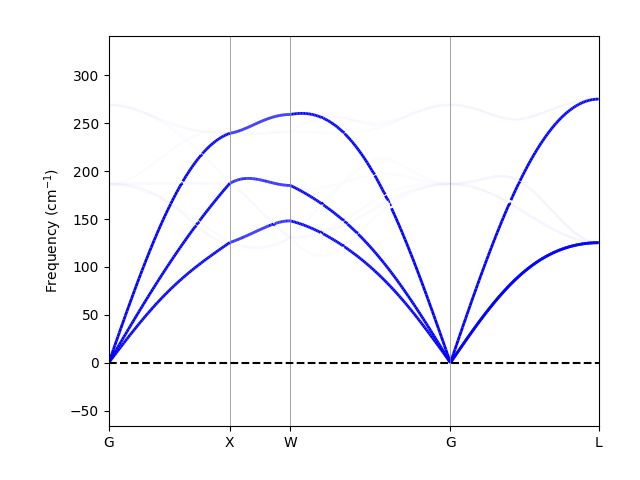
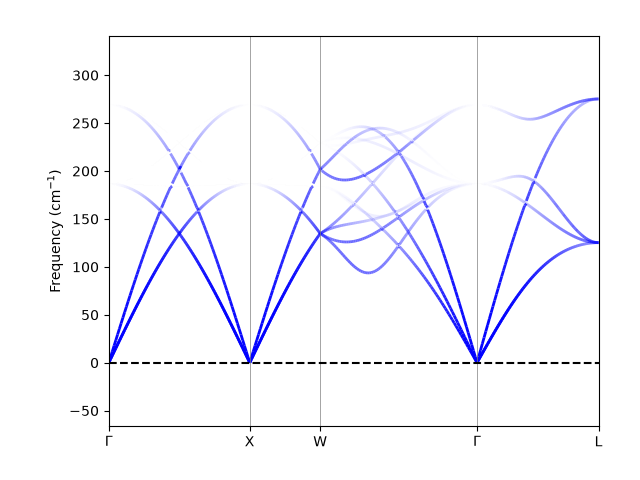
fix(examples): Cu_fcc k-path frame chain (multiply by the supercell matrix)
ase get_special_points(fcc) returns primitive-fractional points
(Setyawan-Curtarolo), but abipy interprets qptbounds in the DDB
structure frame - here the conventional cubic cell (natom=4). The
example fed the primitive-frame points straight in, silently plotting
the wrong path. Fix: k_conv = k_prim @ sc_mat with
sc_mat = [[-1,1,1],[1,-1,1],[1,1,-1]] (X->(0,1,0), W->(1/2,1,0)),
documented as a frame chain in the example; DDB_unfolder docstring
states the required frame; docs snippet updated; committed figure
regenerated (acoustic ~0 at all Gamma, max 275 cm-1 = 8.25 THz).
New test_cu_fcc_kpath_frame.py seals the conversion + frame premise.

diff --git a/tests/test_cu_fcc_kpath_frame.py b/tests/test_cu_fcc_kpath_frame.py
@@ -1,0 +1,52 @@
+"""Cu_fcc example: the k-path must be expressed in the DDB structure's frame.
+
+The out_DDB fixture stores the conventional cubic fcc cell (natom=4), so
+abipy interprets ``kpath_bounds`` in the conventional-cubic reciprocal basis
+(X=(0,1,0), W=(1/2,1,0), L=(1/2,1/2,1/2)).  ase's ``get_special_points`` for
+the primitive fcc cell returns primitive-fractional coordinates instead
+(X=(1/2,0,1/2)); the example must convert them, ``k_conv = k_prim @ sc_mat``.
+"""
+import importlib.util
+from pathlib import Path
+
+import numpy as np
+import pytest
+
+REPO_ROOT = Path(__file__).resolve().parents[1]
+EXAMPLE = REPO_ROOT / "examples" / "Cu_fcc" / "unfold.py"
+
+
+def _load_example_module():
+    # unfold.py imports unfolding.DDB_unfolder, which needs abipy at import.
+    pytest.importorskip("abipy")
+    spec = importlib.util.spec_from_file_location("cu_fcc_unfold_example", EXAMPLE)
+    mod = importlib.util.module_from_spec(spec)
+    spec.loader.exec_module(mod)  # __main__ guard: no abinit run at import
+    return mod
+
+
+def test_ase_fcc_special_points_are_primitive_fractional():
+    # Premise of the example's conversion: ase returns primitive-cell
+    # fractional coordinates, not conventional-cubic ones.
+    from ase.build import bulk
+    from ase.dft.kpoints import get_special_points
+
+    points = get_special_points(bulk("Cu", "fcc").cell, eps=0.01)
+    assert np.allclose(points["X"], [0.5, 0.0, 0.5])
+    assert np.allclose(points["W"], [0.5, 0.25, 0.75])
+    assert np.allclose(points["L"], [0.5, 0.5, 0.5])
+
+
+def test_example_kpath_is_in_conventional_frame():
+    mod = _load_example_module()
+    sc_mat = np.linalg.inv((np.array([[0, 1, 1], [1, 0, 1], [1, 1, 0]]) / 2.0))
+    bounds, names = mod.build_fcc_kpath(sc_mat)
+
+    assert names == [r"$\Gamma$", "X", "W", r"$\Gamma$", "L"]
+    # G-X-W-G-L in conventional-cubic reciprocal coordinates (the frame of
+    # the conventional-cell DDB that abipy reads).
+    expected = np.array(
+        [[0.0, 0.0, 0.0], [0.0, 1.0, 0.0], [0.5, 1.0, 0.0],
+         [0.0, 0.0, 0.0], [0.5, 0.5, 0.5]]
+    )
+    assert np.allclose(bounds, expected, atol=1e-12)

diff --git a/docs/content/examples.md b/docs/content/examples.md
@@ -59,31 +59,45 @@ The resulting unfolded band structure is saved as `unfolded_band_structure.png`.
 This example demonstrates unfolding the phonon band structure of FCC Cu using Abinit DDB files.
 
 Files used in this example:
-- `out_DDB`: The DDB file from Abinit
+- `out_DDB`: The DDB file from Abinit (computed for the **conventional cubic** fcc cell, natom=4)
 - `unfold.py`: The script to perform the unfolding
 
-The example script `unfold.py` shows how to use the DDB_unfolder function:
+The subtle point is the **k-path frame chain**: ase's
+`get_special_points('fcc', ...)` returns the fcc special points in
+*primitive-cell* fractional coordinates (Setyawan-Curtarolo:
+X=(1/2,0,1/2), W=(1/2,1/4,3/4), L=(1/2,1/2,1/2)), while abipy
+interprets `qptbounds` in the DDB structure's fractional coordinates —
+here the *conventional cubic* reciprocal basis (X=(0,1,0),
+W=(1/2,1,0), L=(1/2,1/2,1/2), in units of 2pi/a). The two frames are
+related by the supercell matrix, and the path points must be
+multiplied by it before entering abipy:
 
 ```python
 import numpy as np
-from unfolding.DDB_unfolder import nc_unfolder, DDB_unfolder
+from unfolding.DDB_unfolder import DDB_unfolder
 import matplotlib.pyplot as plt
 from ase.build import bulk
-from ase.dft.kpoints import get_special_points, bandpath
+from ase.dft.kpoints import get_special_points
 
-def run_unfolding():
-    # Generate k-path for fcc Cu.
-    atoms = bulk('Cu','fcc')
-    points = get_special_points('fcc', atoms.cell, eps=0.01)
-    knames='GXWGL'
-    kpath_bounds= [points[k] for k in 'GXWGL']
-    sc_mat = np.linalg.inv((np.array([[0, 1, 1], [1, 0, 1], [1, 1, 0]]) / 2.0))
-    ax=DDB_unfolder('./out_DDB', sc_mat=sc_mat, kpath_bounds=kpath_bounds, knames=knames) 
-    plt.savefig('unfolded.png')
-    plt.show()
+sc_mat = np.linalg.inv((np.array([[0, 1, 1], [1, 0, 1], [1, 1, 0]]) / 2.0))
+# = [[-1,1,1],[1,-1,1],[1,1,-1]]  (conventional cell = prim cell @ sc_mat)
 
-run_unfolding()
+atoms = bulk('Cu', 'fcc')
+points = get_special_points(atoms.cell, eps=0.01)   # PRIMITIVE fractional!
+knames = [r'$\Gamma$', 'X', 'W', r'$\Gamma$', 'L']
+kpath_prim = np.array([points[k] for k in 'GXWGL'])
+kpath_bounds = [np.dot(k, sc_mat) for k in kpath_prim]  # -> CONVENTIONAL frame
+# e.g. X: (1/2,0,1/2) -> (0,1,0);  W: (1/2,1/4,3/4) -> (1/2,1,0)
+
+ax = DDB_unfolder('./out_DDB', sc_mat=sc_mat,
+                  kpath_bounds=kpath_bounds, knames=knames)
+plt.savefig('unfolded.png')
+plt.show()
 ```
+
+Skipping the `kpath_prim @ sc_mat` step silently plots the wrong path,
+because abipy reads the raw points in the conventional frame of the
+DDB.
 
 The resulting unfolded band structure is saved as `unfolded.png`.
 
